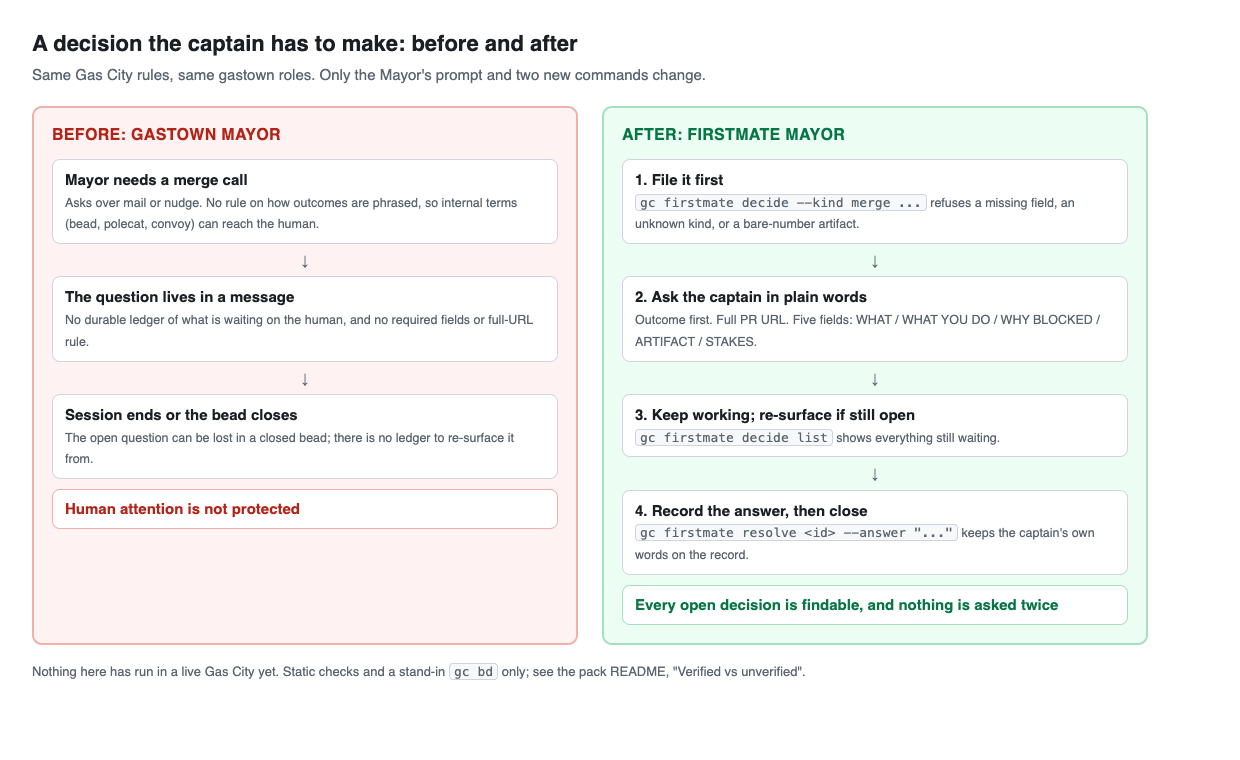
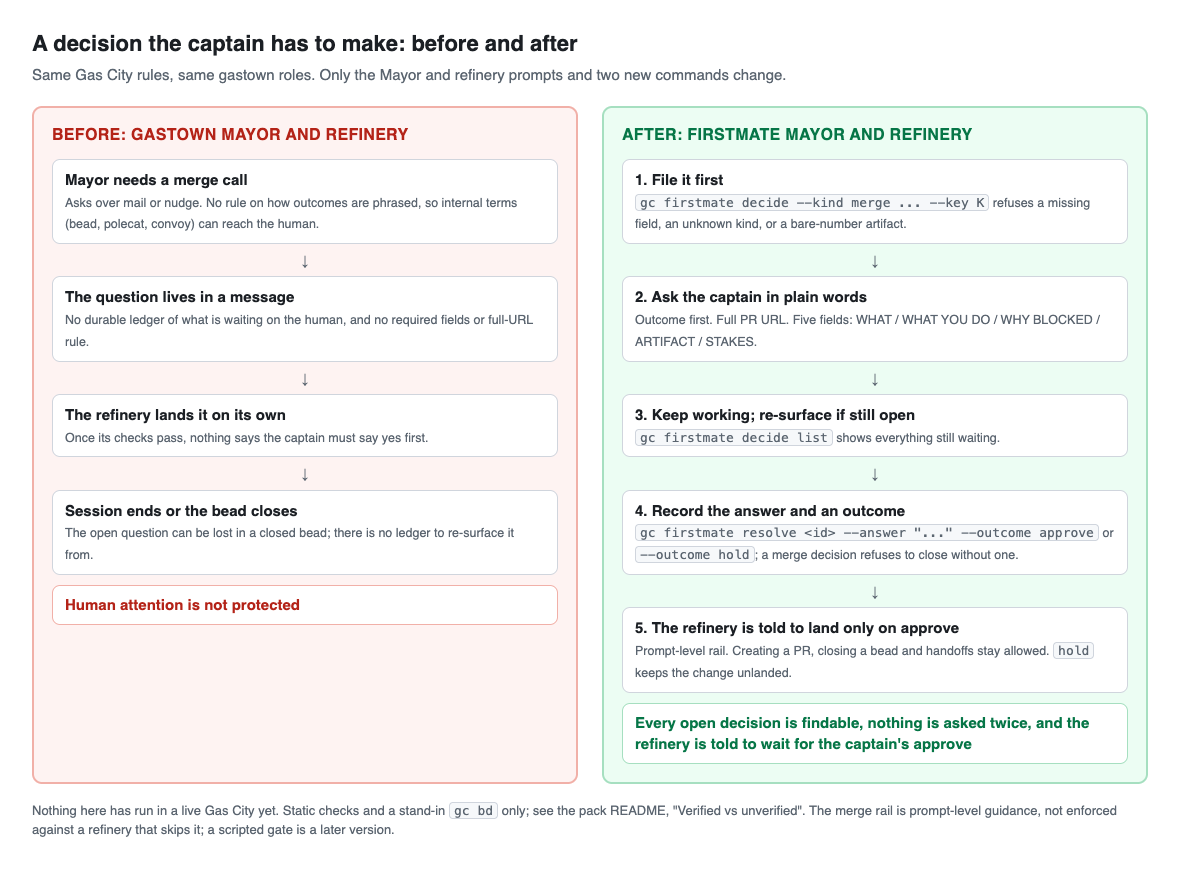
no-mistakes(review): Document merge rail limitation and refresh evidence

Changed region(s): [[0.0, 0.0303, 0.9763, 0.9684], [0.9458, 0.1211, 0.9763, 0.1513]]

diff --git a/firstmate/README.md b/firstmate/README.md
@@ -6,9 +6,9 @@ Mayor lacks. Those are a communication contract for talking to the human (the
 "captain") and a durable decision ledger.
 
 Everything else is gastown: deacon, boot, witness, refinery, polecats,
-formulas, orders. The captain alone owns merging. The patched refinery must
-hold a change until its exact merge decision is resolved with the captain's
-recorded `approve` outcome.
+formulas, orders. The refinery prompt tells it to hold a change until its
+exact merge decision records the captain's `approve` outcome. This is
+prompt-level guidance, not tamper-proof enforcement.
 
 > **Status: v0.1.0, static checks only.** The files parse and the scripts pass
 > `shellcheck`. The decision commands were exercised against a stand-in for
@@ -31,12 +31,15 @@ Two things to do by hand (both **unverified**, see below):
 
 1. **Import firstmate instead of gastown, not alongside it.** firstmate
    already imports gastown. Importing both would give you two of every role.
-2. **Set merge ownership before attaching any rig.** The captain is the sole
-   merge owner. The patched refinery must never merge autonomously: when a
-   change is ready to land, it stops and files a `merge` decision with `gc
-   firstmate decide`. It resumes only when a resolved decision for that exact
-   change has the captain's recorded `approve` outcome; `hold` keeps it
-   unlanded. The captain performs the merge.
+2. **Set merge ownership before attaching any rig.** The refinery prompt says
+   the captain is the sole merge owner: when a change is ready to land, it
+   tells the refinery to stop and file a `merge` decision with `gc firstmate
+   decide`. It tells the refinery to resume only when a resolved decision for
+   that exact change has the captain's recorded `approve` outcome; `hold`
+   keeps it unlanded. The captain performs the merge. This v0 rail is not
+   enforced against a refinery or other caller that skips the prompt: `resolve`
+   does not verify who the caller is or bind an approval to one specific work
+   item.
    Publishing a PR, closing a bead, and recording handoffs remain governed by
    the ordinary refinery workflow, so the captain can inspect the PR URL first.
 3. **Give rigs the import too.** Rig-scoped roles (witness, refinery, polecat)
@@ -102,10 +105,12 @@ gc firstmate resolve <id> --answer "merge it" --outcome approve   # record appro
 - `--binding <import-binding>` controls the resolve hint printed after filing;
   it defaults to `firstmate` and must be a plain identifier.
 - `resolve` records the answer as a comment first, then closes. A `merge`
-  decision also requires either `--outcome approve` or `--outcome hold`; only
-  `approve` lets the refinery land that exact change, while `hold` keeps it unlanded. It refuses
-  ids that are not ledger decisions or are already resolved, and it matches ids
-  exactly (plain `gc bd` fuzzy-matches).
+  decision also requires either `--outcome approve` or `--outcome hold`; an
+  `approve` outcome tells the refinery that exact change may land, while
+  `hold` tells it to keep the change unlanded. This is a recorded prompt-level
+  policy: `resolve` does not verify who supplied the answer or bind approval to
+  one specific work item. It refuses ids that are not ledger decisions or are
+  already resolved, and it matches ids exactly (plain `gc bd` fuzzy-matches).
 
 ## Design
 
@@ -213,11 +218,11 @@ Nothing in `pack.toml` has to change for the formula and command to load.
 
 - That `gc import add` plus the pinned gastown import loads, and that the
   patches find `mayor` and `refinery` and swap their prompts.
-- That the refinery boundary can identify an exact change and its resolved
-  decision in a live ledger, block landing when absent, and prevent every merge
-  path until the captain's `approve` outcome is recorded while leaving PR
-  publication and ordinary handoffs available. The prompt rule is statically
-  rendered and checked; runtime enforcement has never run in a live city.
+- The captain-only merge rail is prompt-level guidance to the refinery, not
+  tamper-proof enforcement. It is not enforced against a refinery or any other
+  caller that skips it; `resolve` does not verify the caller or bind an
+  approval to one specific work item. The prompt rule is statically rendered
+  and checked, but runtime enforcement has never run in a live city.
 - That `prompt_template` resolves correctly when the pack sits in Gas City's
   remote-import cache rather than the city directory.
 - The re-stamping of gastown roles as `firstmate.<name>`, the need for
@@ -249,6 +254,10 @@ These are known gaps, left for later:
   guards filing, not authority.
 - **Refuse-on-unlanded teardown.** Refusing to tear down a worker's workspace
   while it holds uncommitted or unmerged work.
+- **Scripted merge gate (v0.1).** One merge script that reads live
+  preconditions, binds the captain's identity, and records a persisted
+  per-work-item merge-authority flag. v0 has only the refinery prompt-level
+  rail.
 - **Scouts: the Mayor launching read-only workers.** A scout is a worker whose
   deliverable is a **report, not a PR**, and which never writes to the project
   it studies. The Mayor must be able to launch one, and **may not relay a
@@ -260,7 +269,8 @@ These are known gaps, left for later:
   [Roadmap layout](#roadmap-layout-where-scouts-drop-in), so nothing in v0
   needs restructuring.
 - **Proof that the answer came from the captain.** `resolve` records whatever
-  `--answer` it is given; v0 relies on the prompt rule that it be the
+  `--answer` it is given; it neither verifies the caller nor binds an approval
+  to a specific work item. v0 relies on the prompt rule that it be the
   captain's own words.
 
 ## License and upstream
